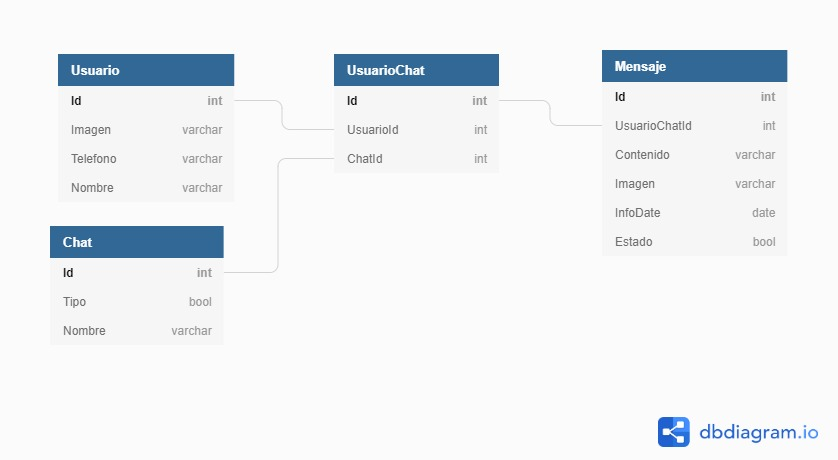
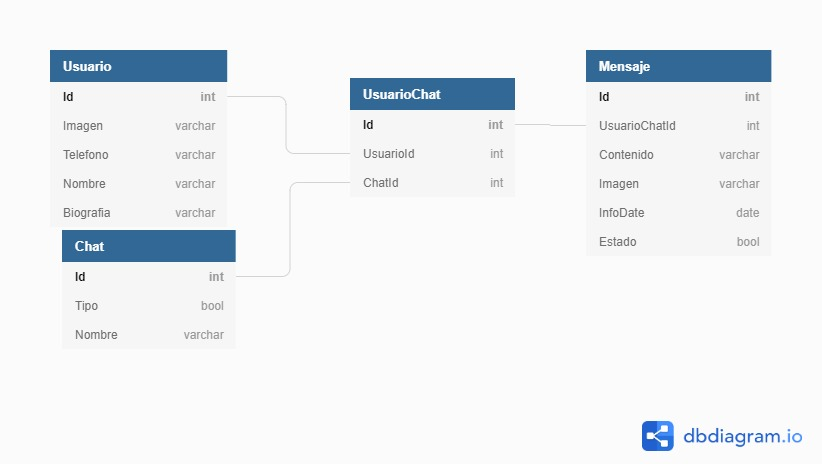
Entregable final

diff --git a/AppMensajeria/Views/ListaUsuariosPage.xaml b/AppMensajeria/Views/ListaUsuariosPage.xaml
@@ -29,16 +29,24 @@
                                 <Grid VerticalOptions="CenterAndExpand">
                                     <Grid.RowDefinitions>
                                         <RowDefinition Height="Auto" />
-                                        <RowDefinition Height="Auto" />
-                                        <RowDefinition Height="Auto"/>
                                     </Grid.RowDefinitions>
-                                    <Label FontAttributes="Bold"
-                                           Text="{Binding Nombre}"/>
-                                    <Label Grid.Row="1"
-                                           TextColor="Black"
-                                           Text="{Binding Telefono}" />
-                                    <Image Grid.Row="2"                                          
-                                           Source ="{Binding Imagen}" />
+                                    <Grid.ColumnDefinitions>
+                                        <ColumnDefinition Width="Auto"/>
+                                        <ColumnDefinition Width="Auto"/>
+                                    </Grid.ColumnDefinitions>
+                                    <Image Source ="{Binding Imagen}" />
+                                        <StackLayout Grid.Column="1">
+                                            <Label FontAttributes="Bold"
+                                                   Grid.Column="1"
+                                                   Text="{Binding Nombre}"/>
+                                            <Label Text="Teléfono:"/>
+                                            <Label TextColor="Black"                                                  
+                                                   Text="{Binding Telefono}" />
+                                            <Label Text="Biografía:"/>
+                                            <Label TextColor="Black"                                                  
+                                                   Text="{Binding Biografia}" />
+                                        </StackLayout>
+                                    
                                     </Grid>
                             </StackLayout>
                         </Frame>

diff --git a/AppMensajeria/Views/UsuarioPage.xaml b/AppMensajeria/Views/UsuarioPage.xaml
@@ -38,7 +38,13 @@
                    Placeholder="Nombre" />
             <Label Text="Telefono" />
             <Entry x:Name="EntryTelefono"
-                   Placeholder="Teléfono" />
+                   Placeholder="Teléfono" 
+                   MaxLength="10"/>
+            <Label Text="Biografía" />
+            <Editor x:Name="EntryBiografia"
+                    MaxLength="255"
+                    AutoSize="TextChanges"
+                    Placeholder="... Escribe algo sobre ti" />
             <Button x:Name="ButtonRegistrar"
                     Text="Registrarme"
                     Clicked="ButtonRegistrar_Clicked"/>

diff --git a/AppMensajeria/Views/UsuarioPage.xaml.cs b/AppMensajeria/Views/UsuarioPage.xaml.cs
@@ -31,8 +31,10 @@ namespace AppMensajeria.Views
                 ButtonSelectPic.IsVisible = true;
                 EntryNombre.IsEnabled = true;
                 EntryTelefono.IsEnabled = true;
+                EntryBiografia.IsEnabled = true;
                 EntryNombre.Text = "";
                 EntryTelefono.Text = "";
+                EntryBiografia.Text = "";
                 ButtonRegistrar.IsVisible = true;
                 ButtonCerrarSesion.IsVisible = false;
             }
@@ -43,8 +45,10 @@ namespace AppMensajeria.Views
                 ButtonSelectPic.IsVisible = false;
                 EntryNombre.IsEnabled = false;
                 EntryTelefono.IsEnabled = false;
+                EntryBiografia.IsEnabled = false;
                 EntryNombre.Text = this_usuario.MiNombre;
                 EntryTelefono.Text = this_usuario.MiTelefono;
+                EntryBiografia.Text = this_usuario.MiBiografia;
                 ButtonRegistrar.IsVisible = false;
                 ButtonCerrarSesion.IsVisible = true;
 
@@ -87,26 +91,29 @@ namespace AppMensajeria.Views
             {
                 try
                 {
+                    var num = int.Parse(EntryTelefono.Text);
                     Usuario usuario = new Usuario
                     {
                         Imagen = ImageToBase64(file),
                         Nombre = EntryNombre.Text,
                         Telefono = EntryTelefono.Text,
+                        Biografia = EntryBiografia.Text
                     };
                     UsuarioService service = new UsuarioService();
 
                     var current = Connectivity.NetworkAccess;
 
-                    if (current == NetworkAccess.Internet) 
+                    if (current == NetworkAccess.Internet)
                     {
 
                         usuario = await service.CrearUsuarioApi(usuario);
                         PerfilService perfilService = new PerfilService();
                         perfilService.CrearPerfil(usuario);
-                        await DisplayAlert("Exito", "Su perfil ha sido almacenado.", "Aceptar");                        
+                        await DisplayAlert("Exito", "Su perfil ha sido almacenado.", "Aceptar");
                         ButtonSelectPic.IsVisible = false;
                         EntryNombre.IsEnabled = false;
                         EntryTelefono.IsEnabled = false;
+                        EntryBiografia.IsEnabled = false;
                         ButtonRegistrar.IsVisible = false;
                         formBuscarUsuario.IsVisible = false;
                         ButtonCerrarSesion.IsVisible = true;
@@ -116,7 +123,7 @@ namespace AppMensajeria.Views
                         await DisplayAlert("Error de conexión", "Debe estar conectado para registrarse", "Aceptar");
 
                     }
-                    
+
                 }
                 catch (Exception ex)
                 {
@@ -147,16 +154,17 @@ namespace AppMensajeria.Views
                             PerfilService perfilService = new PerfilService();
                             perfilService.CrearPerfil(await service.ObtenerUsuarioTelefonoApi(telefono));
                             EntryNombre.Text = this_usuario.Nombre;
-                            EntryTelefono.Text = (this_usuario.Telefono).ToString();
+                            EntryTelefono.Text = this_usuario.Telefono;
+                            EntryBiografia.Text = this_usuario.Biografia;
                             ImageView.Source = Base64ToImage(this_usuario.Imagen);
 
                             EntryNombre.IsEnabled = false;
                             EntryTelefono.IsEnabled = false;
+                            EntryBiografia.IsEnabled = false;
                             ButtonSelectPic.IsVisible = false;
                             formBuscarUsuario.IsVisible = false;
                             ButtonRegistrar.IsVisible = false;
                             ButtonCerrarSesion.IsVisible = true;
-
 
                         }
                         else

diff --git a/AppMensajeria/Views/MensajeriaPage.xaml.cs b/AppMensajeria/Views/MensajeriaPage.xaml.cs
@@ -94,6 +94,7 @@ namespace AppMensajeria.Views
                         await llenarListaMensajes();
 
                         EntryMensaje.Text= "";
+                        file = null;
 
                     }
 
@@ -110,7 +111,7 @@ namespace AppMensajeria.Views
             var picker = sender as Picker;
             if (picker.SelectedIndex >= 0)
             {
-                llenarListaMensajes();
+                await llenarListaMensajes();
                 ButtonCompartir.IsEnabled = true;
             }
             else
@@ -124,8 +125,16 @@ namespace AppMensajeria.Views
         private async void ItemEscuchar_Clicked(object sender, EventArgs e)
         {
             var menuItem = sender as ListView;
-            var mensaje = menuItem.SelectedItem as Mensaje;
-            await TextToSpeech.SpeakAsync(mensaje.Contenido);
+            var mensaje = menuItem.SelectedItem as MensajeImagen;
+            if(mensaje.Contenido == null || mensaje.Contenido == "")
+            {
+                await TextToSpeech.SpeakAsync("Este mensaje no tiene texto");
+            }
+            else
+            {
+                await TextToSpeech.SpeakAsync(mensaje.Contenido);
+            }
+       
         }
  
         public async Task llenarListaMensajes()

diff --git a/AppMensajeria/Services/PerfilService.cs b/AppMensajeria/Services/PerfilService.cs
@@ -1,7 +1,6 @@
 using AppMensajeria.Contexts;
 using AppMensajeria.Models;
 using System;
-using System.Collections.ObjectModel;
 using System.Linq;
 
 namespace AppMensajeria.Services
@@ -27,7 +26,8 @@ namespace AppMensajeria.Services
                     MiUsuarioID = usuario.UsuarioID,
                     MiImagen = usuario.Imagen,
                     MiNombre = usuario.Nombre,
-                    MiTelefono = usuario.Telefono
+                    MiTelefono = usuario.Telefono,
+                    MiBiografia = usuario.Biografia
                 };
                 _context.Perfiles.Add(perfil);
                 _context.SaveChanges();

diff --git a/AppMensajeria/Services/UsuarioChatService.cs b/AppMensajeria/Services/UsuarioChatService.cs
@@ -14,7 +14,7 @@ namespace AppMensajeria.Services
     public class UsuarioChatService
     {
         private readonly AppDbContext _context;
-        private const string UsuarioChatAPI = "https://grupo5.azurewebsites.net/api/UsuarioChats";
+        private const string UsuarioChatAPI = "https://appmensajeria.azurewebsites.net/api/UsuarioChats";
 
         public UsuarioChatService()
         {

diff --git a/AppMensajeria/Views/ListaUsuariosPage.xaml.cs b/AppMensajeria/Views/ListaUsuariosPage.xaml.cs
@@ -32,7 +32,8 @@ namespace AppMensajeria.Views
                 {
                     Nombre = x.Nombre,
                     Telefono = x.Telefono,
-                    Imagen = Base64ToImage(x.Imagen)
+                    Imagen = Base64ToImage(x.Imagen),
+                    Biografia = x.Biografia
                 };
                 usuarioImagens.Add(usuario);
             }

diff --git a/AppMensajeria/Services/MensajeService.cs b/AppMensajeria/Services/MensajeService.cs
@@ -14,7 +14,7 @@ namespace AppMensajeria.Services
     public class MensajeService
     {
         private readonly AppDbContext _context;
-        private const string MensajeAPI = "https://grupo5.azurewebsites.net/api/Mensajes";
+        private const string MensajeAPI = "https://appmensajeria.azurewebsites.net/api/Mensajes";
 
         public MensajeService()
         {

diff --git a/AppMensajeria/Services/UsuarioService.cs b/AppMensajeria/Services/UsuarioService.cs
@@ -14,7 +14,7 @@ namespace AppMensajeria.Services
     public class UsuarioService
     {
         private readonly AppDbContext _context;
-        private const string UsuarioAPI = "https://grupo5.azurewebsites.net/api/Usuarios";
+        private const string UsuarioAPI = "https://appmensajeria.azurewebsites.net/api/Usuarios";
 
         public UsuarioService()
         {

diff --git a/AppMensajeria/Services/ChatService.cs b/AppMensajeria/Services/ChatService.cs
@@ -14,7 +14,7 @@ namespace AppMensajeria.Services
     public class ChatService
     {
         private readonly AppDbContext _context;
-        private const string ChatAPI = "https://grupo5.azurewebsites.net/api/Chats";
+        private const string ChatAPI = "https://appmensajeria.azurewebsites.net/api/Chats";
 
         public ChatService()
         {

diff --git a/AppMensajeria/Models/Perfil.cs b/AppMensajeria/Models/Perfil.cs
@@ -20,6 +20,9 @@ namespace AppMensajeria.Models
         [Required]
         [Column("Telefono")]
         public string MiTelefono { get; set; }
-        
+        [Column("Biografia")]
+        [StringLength(255)]
+        public string MiBiografia { get; set; }
+
     }
 }

diff --git a/AppMensajeria/Models/Usuario.cs b/AppMensajeria/Models/Usuario.cs
@@ -19,5 +19,8 @@ namespace AppMensajeria.Models
         [Required]
         [Column("Telefono")]
         public string Telefono { get; set; }
+        [Column("Biografia")]
+        [StringLength(255)]
+        public string Biografia { get; set; }
     }
 }
